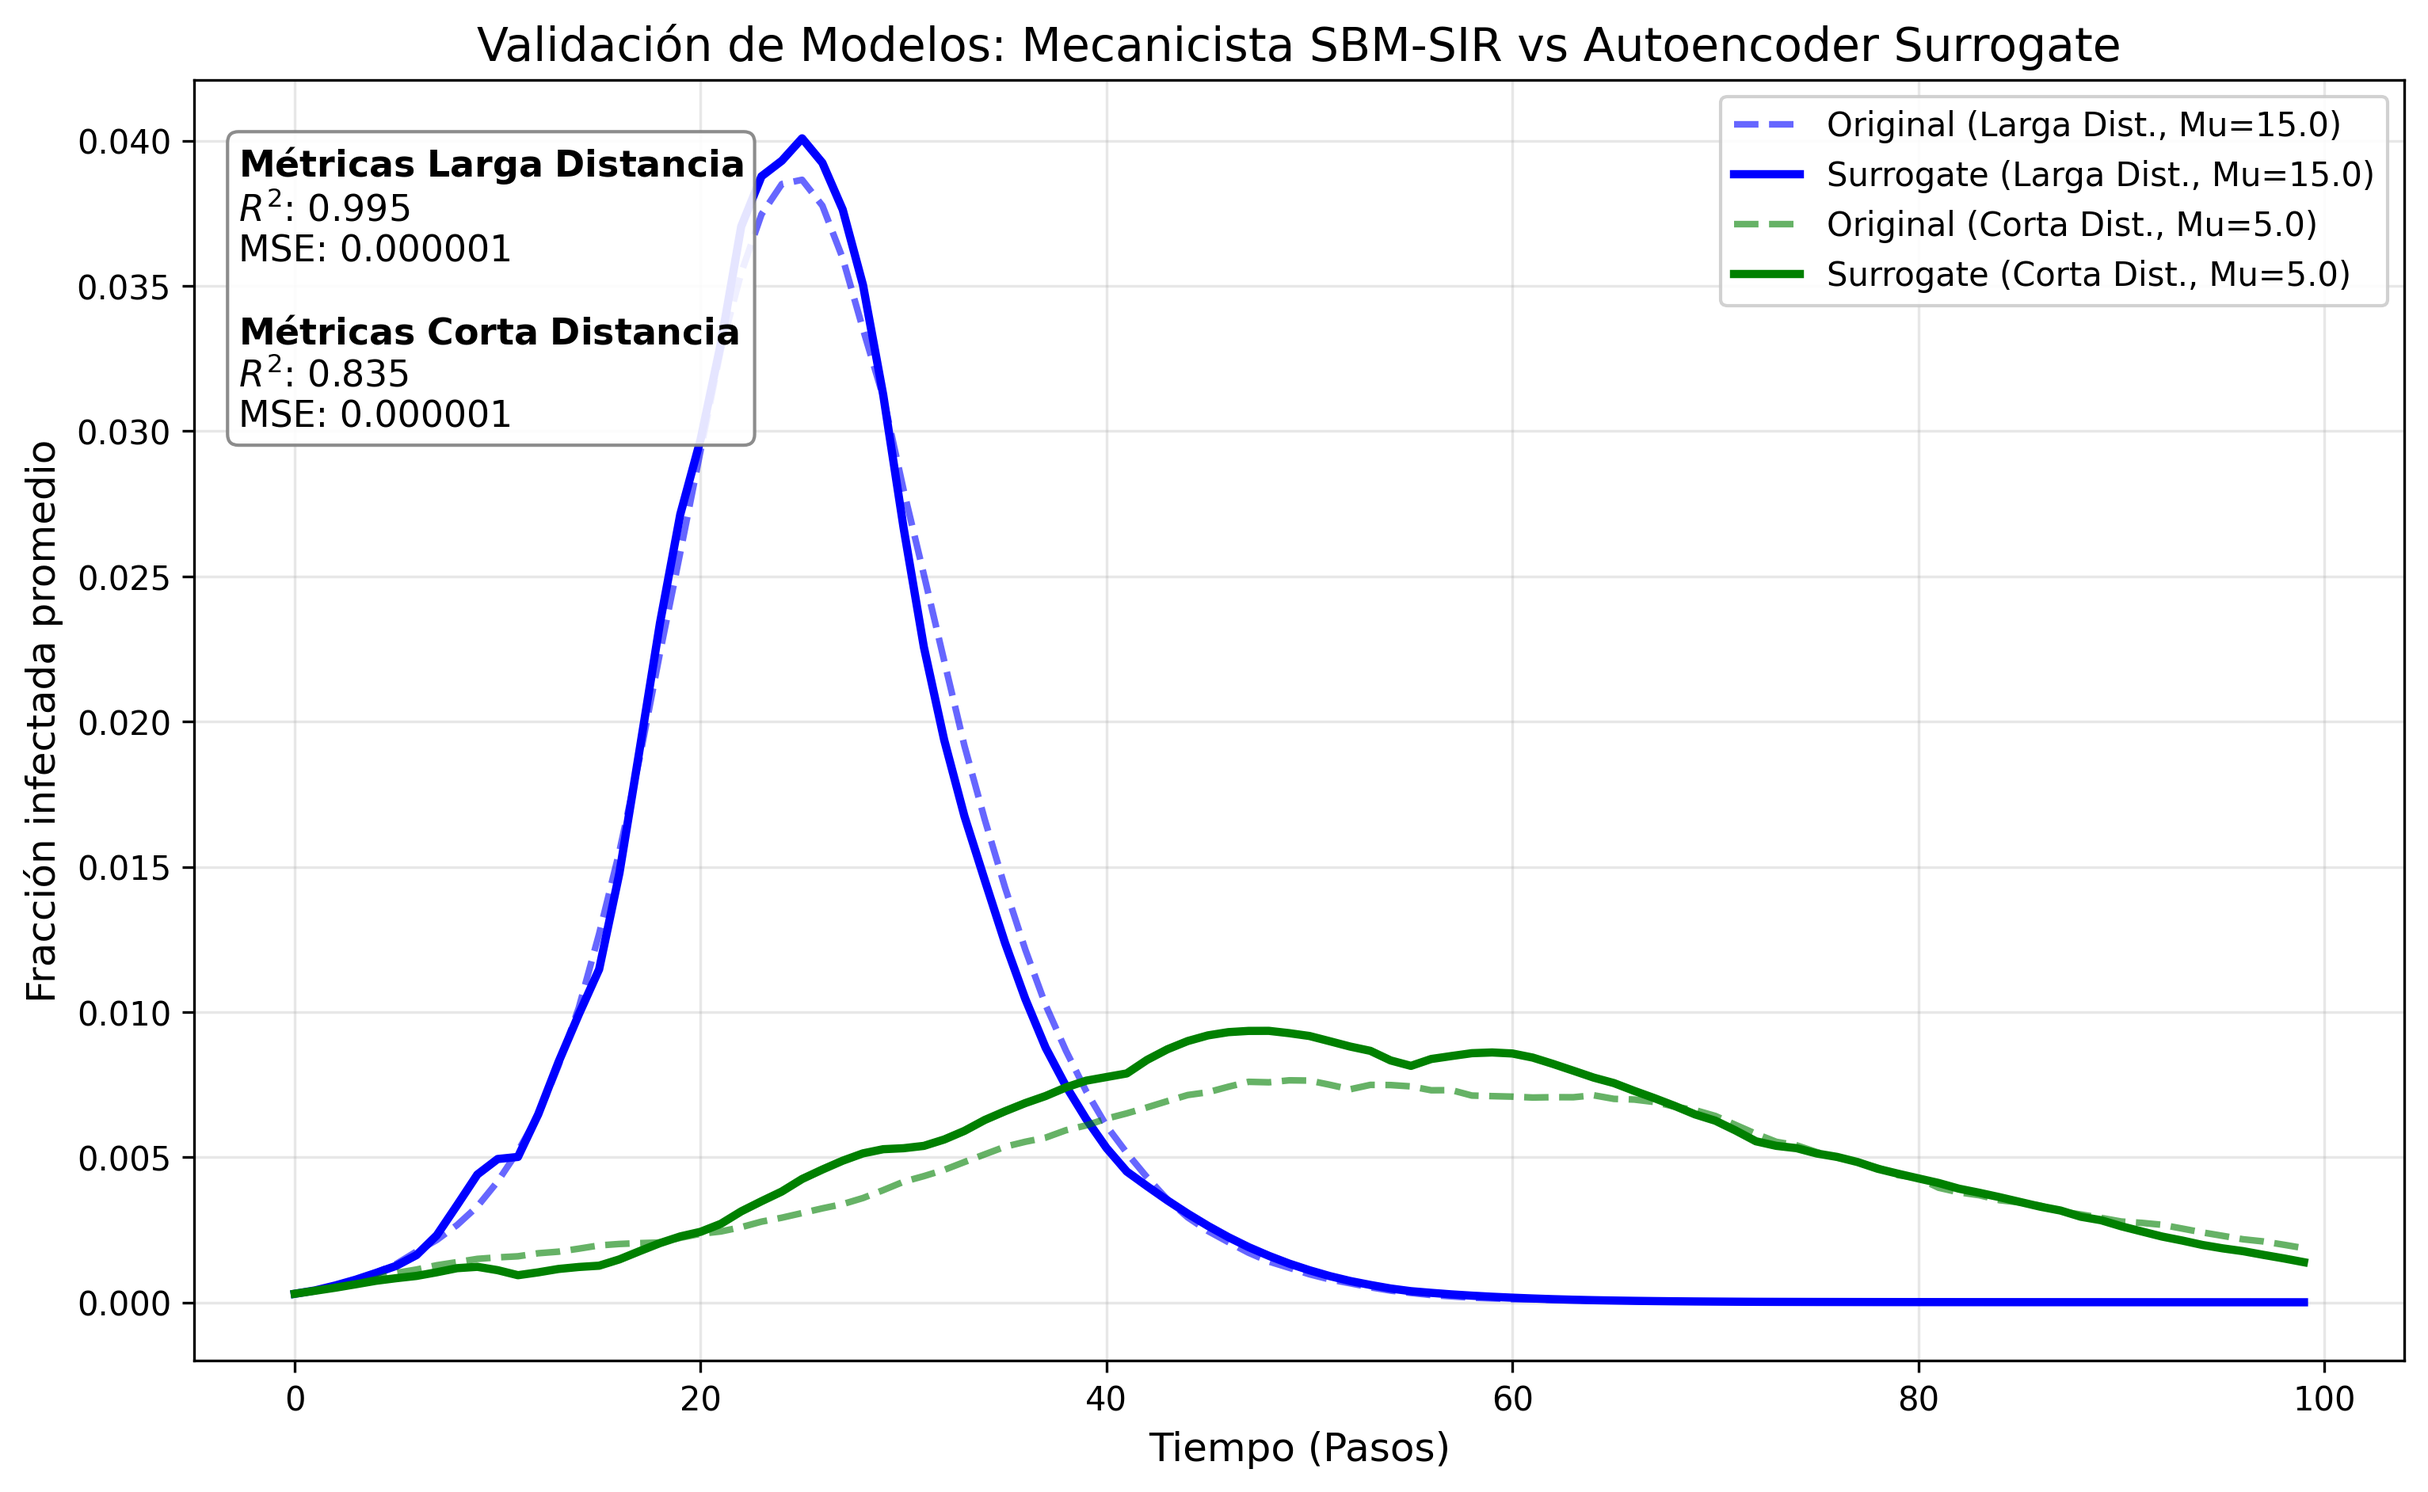
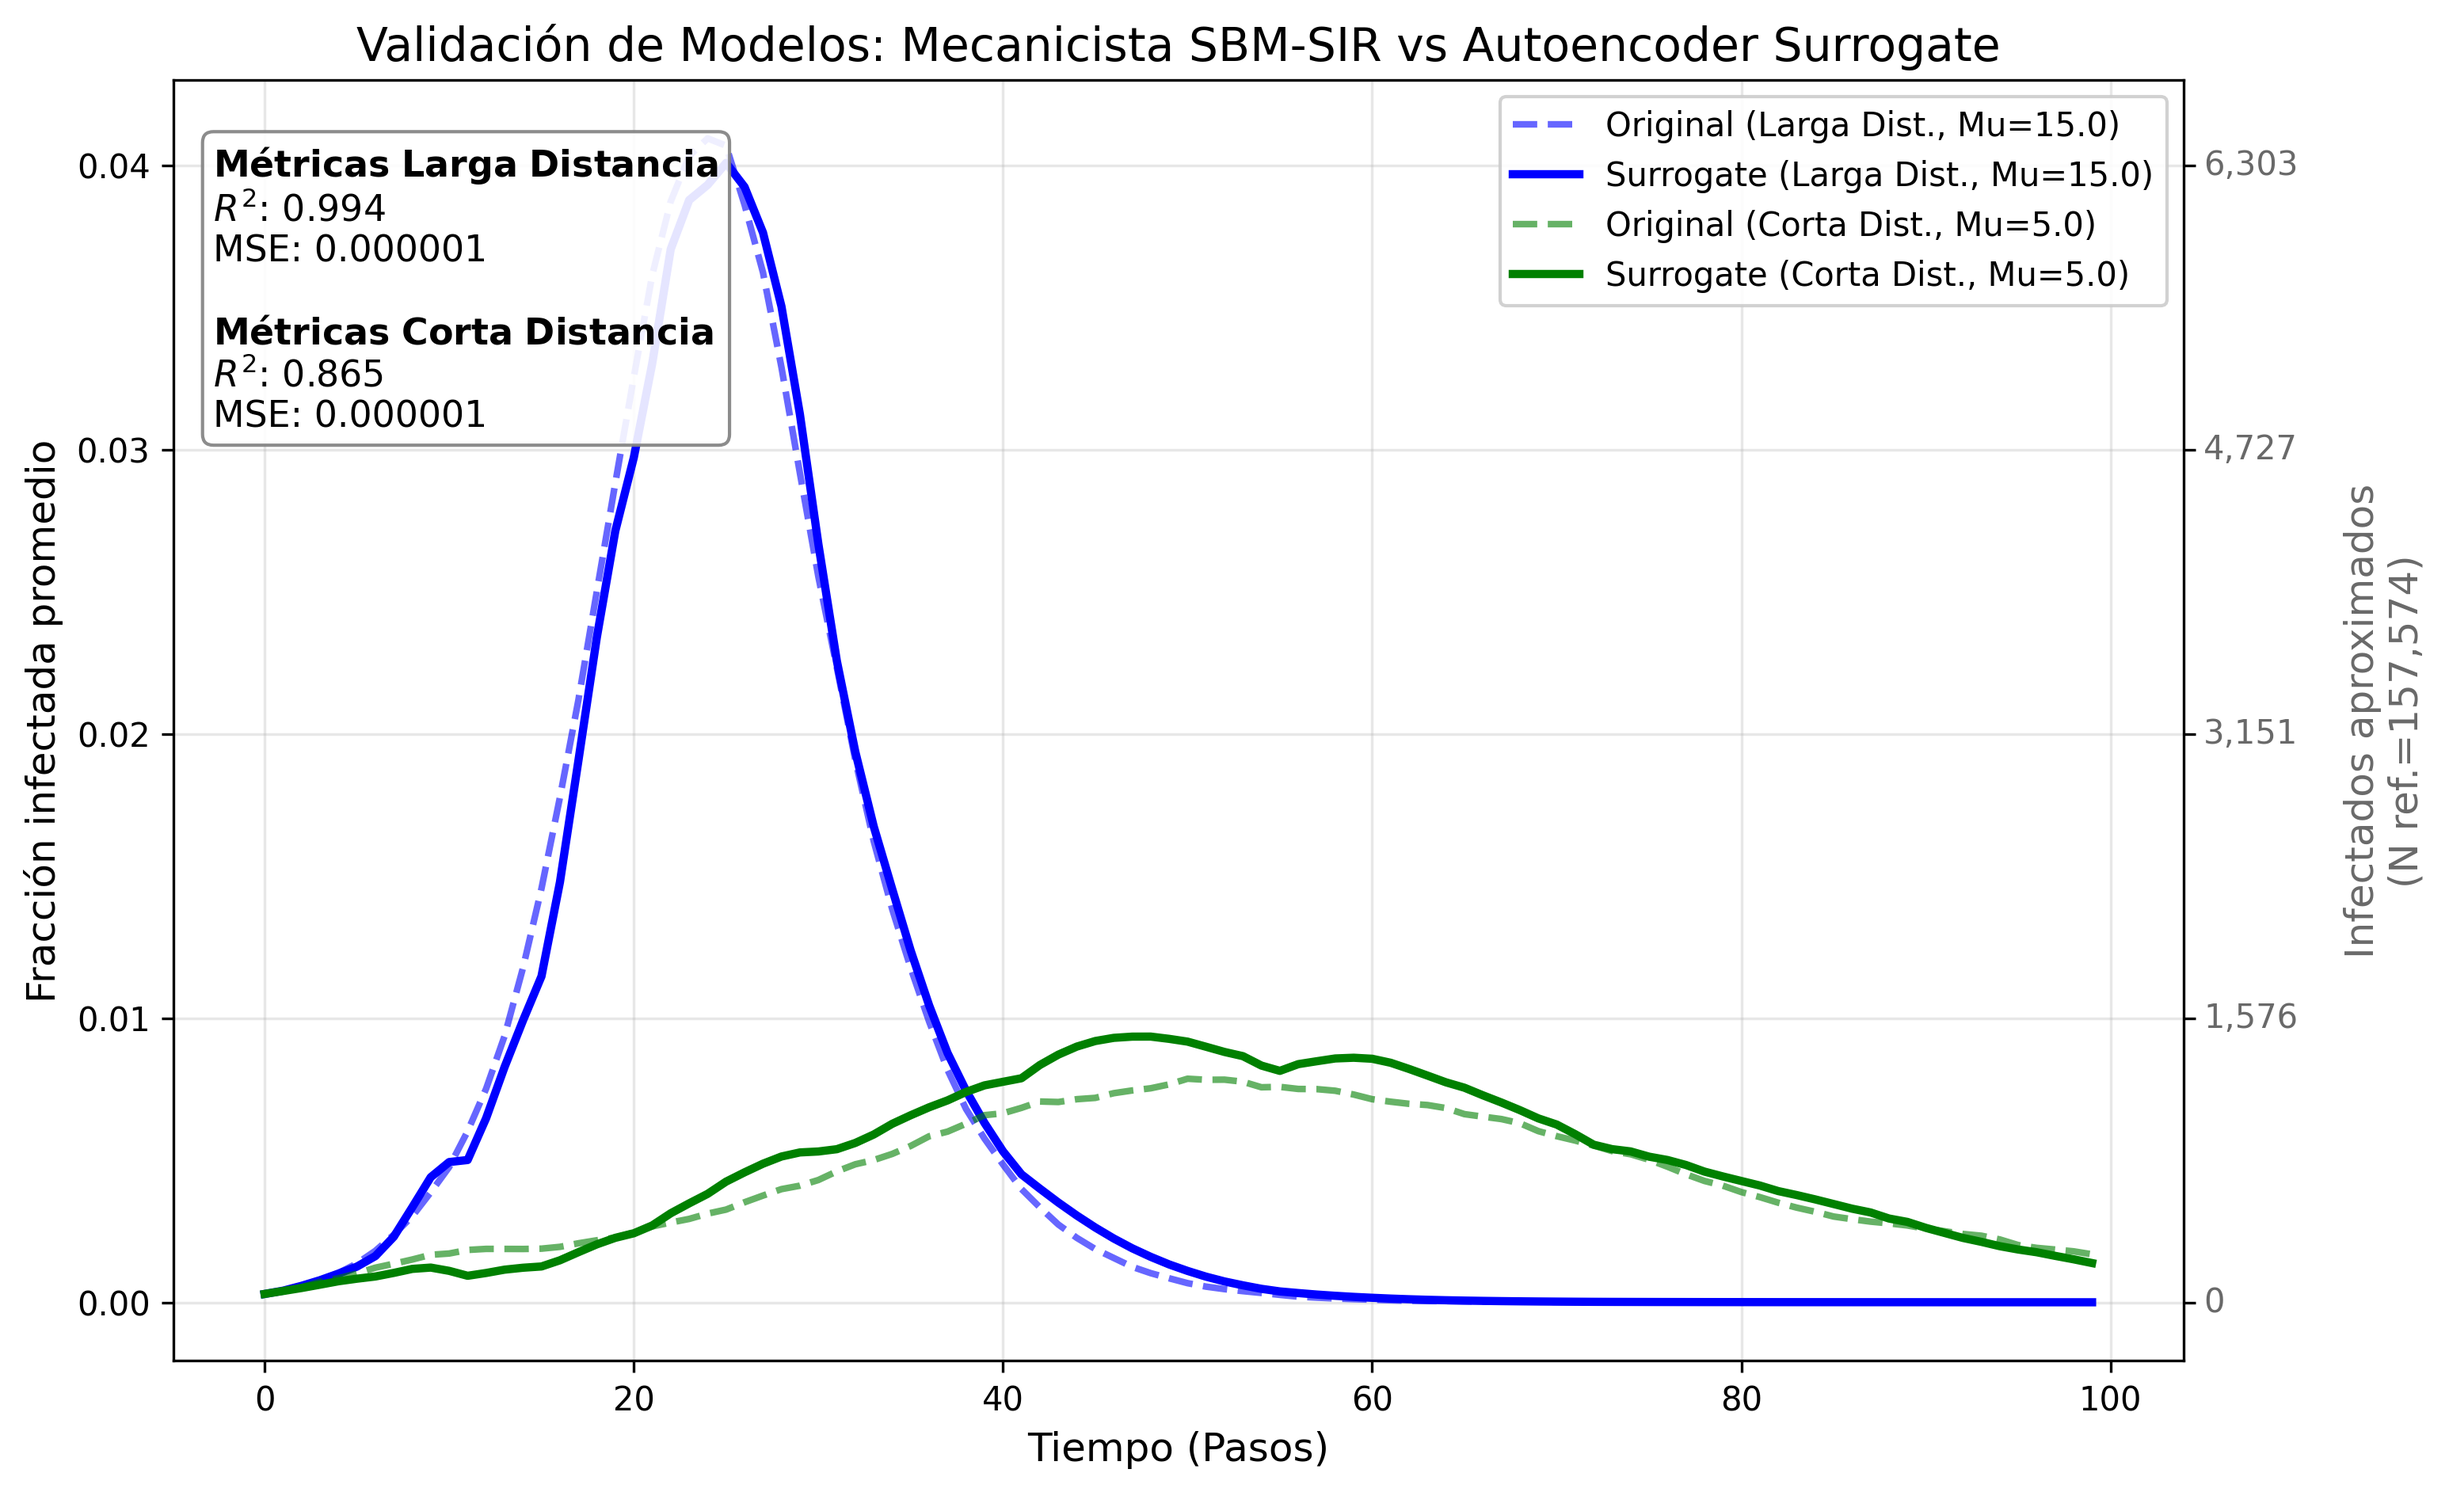
relativas y absolutas añadidas

diff --git a/AI_SBM.py b/AI_SBM.py
@@ -1,4 +1,10 @@
 import os
+
+ROOT_DIR = os.path.dirname(os.path.abspath(__file__))
+os.environ.setdefault("MPLBACKEND", "Agg")
+os.environ.setdefault("MPLCONFIGDIR", os.path.join(ROOT_DIR, "output", "ai_sbm", "mpl_cache"))
+os.environ.setdefault("XDG_CACHE_HOME", os.path.join(ROOT_DIR, "output", "ai_sbm", "xdg_cache"))
+
 import random
 import numpy as np
 import torch
@@ -29,7 +35,7 @@ METRICS_FILE = os.path.join(OUTPUT_DIR, "eval_metrics_normalized.txt")
 
 
 # 1. Dataset Generation
-def run_custom_scenario(beta_net, beta_hh, delta, fermi_mu, num_sims=10):
+def run_custom_scenario(beta_net, beta_hh, delta, fermi_mu, num_sims=10, return_population=False):
     """Ejecuta el simulador y retorna la curva promedio de fraccion infectada.
 
     Cada replica se normaliza primero por su poblacion total y despues se
@@ -53,6 +59,7 @@ def run_custom_scenario(beta_net, beta_hh, delta, fermi_mu, num_sims=10):
     packet["G"] = H_multi
     
     all_I = []
+    all_populations = []
     base_seed = packet["seed"]
     for i in range(num_sims):
         packet["seed"] = base_seed + i + random.randint(1000, 9000)
@@ -60,6 +67,7 @@ def run_custom_scenario(beta_net, beta_hh, delta, fermi_mu, num_sims=10):
             out = generador.simulate(packet)
             # Asegurar longitud igual a TMAX
             N_tot = int(out.meta["N_tot"])
+            all_populations.append(N_tot)
             I_curve = out.I / N_tot
             if len(I_curve) < TMAX:
                 I_curve = np.pad(I_curve, (0, TMAX - len(I_curve)), 'edge')
@@ -70,9 +78,14 @@ def run_custom_scenario(beta_net, beta_hh, delta, fermi_mu, num_sims=10):
             continue
     
     if len(all_I) == 0:
+        if return_population:
+            return np.zeros(TMAX), 1
         return np.zeros(TMAX)
     
-    return np.mean(all_I, axis=0)
+    mean_curve = np.mean(all_I, axis=0)
+    if return_population:
+        return mean_curve, int(round(np.mean(all_populations)))
+    return mean_curve
 
 def generate_dataset(num_samples=150, num_sims_per_sample=8):
     """Genera datos sintéticos variando los parámetros clave."""
@@ -284,10 +297,14 @@ def plot_ultimate_validation(model, X_scaler, Y_scaler):
     
     # Simulación Original
     print("Simulando Corta Distancia (Mu=5.0)...")
-    I_real_short = run_custom_scenario(beta_net, beta_hh, delta, mu_short, num_sims=20)
+    I_real_short, pop_short = run_custom_scenario(
+        beta_net, beta_hh, delta, mu_short, num_sims=20, return_population=True
+    )
     
     print("Simulando Larga Distancia (Mu=15.0)...")
-    I_real_long = run_custom_scenario(beta_net, beta_hh, delta, mu_long, num_sims=20)
+    I_real_long, pop_long = run_custom_scenario(
+        beta_net, beta_hh, delta, mu_long, num_sims=20, return_population=True
+    )
     
     # Predicciones Surrogate
     params_short = np.array([[beta_net, beta_hh, delta, mu_short]])
@@ -317,21 +334,49 @@ def plot_ultimate_validation(model, X_scaler, Y_scaler):
     
     t = np.arange(TMAX)
     
-    plt.figure(figsize=(12, 7))
+    reference_population = int(round(np.mean([pop_short, pop_long])))
+    fig, ax = plt.subplots(figsize=(12, 7))
     
     # Trazar Larga Distancia (Mu=15) - Predominancia Libre
-    plt.plot(t, I_real_long, label=f"Original (Larga Dist., Mu=15.0)", color="blue", linestyle="--", linewidth=2, alpha=0.6)
-    plt.plot(t, I_pred_long, label=f"Surrogate (Larga Dist., Mu=15.0)", color="blue", linestyle="-", linewidth=2.5)
+    ax.plot(t, I_real_long, label=f"Original (Larga Dist., Mu=15.0)", color="blue", linestyle="--", linewidth=2, alpha=0.6)
+    ax.plot(t, I_pred_long, label=f"Surrogate (Larga Dist., Mu=15.0)", color="blue", linestyle="-", linewidth=2.5)
     
     # Trazar Corta Distancia (Mu=5) - Predominancia Local
-    plt.plot(t, I_real_short, label=f"Original (Corta Dist., Mu=5.0)", color="green", linestyle="--", linewidth=2, alpha=0.6)
-    plt.plot(t, I_pred_short, label=f"Surrogate (Corta Dist., Mu=5.0)", color="green", linestyle="-", linewidth=2.5)
+    ax.plot(t, I_real_short, label=f"Original (Corta Dist., Mu=5.0)", color="green", linestyle="--", linewidth=2, alpha=0.6)
+    ax.plot(t, I_pred_short, label=f"Surrogate (Corta Dist., Mu=5.0)", color="green", linestyle="-", linewidth=2.5)
     
-    plt.title("Validación de Modelos: Mecanicista SBM-SIR vs Autoencoder Surrogate", fontsize=14)
-    plt.xlabel("Tiempo (Pasos)", fontsize=12)
-    plt.ylabel("Fracción infectada promedio", fontsize=12)
-    plt.legend(loc="upper right", framealpha=0.9)
-    plt.grid(True, alpha=0.3)
+    ax.set_title("Validación de Modelos: Mecanicista SBM-SIR vs Autoencoder Surrogate", fontsize=14)
+    ax.set_xlabel("Tiempo (Pasos)", fontsize=12)
+    ax.set_ylabel("Fracción infectada promedio", fontsize=12)
+    ax.legend(loc="upper right", framealpha=0.9)
+    ax.grid(True, alpha=0.3)
+
+    fig.subplots_adjust(right=0.83)
+    ax.tick_params(axis="y", right=True, labelright=False)
+    y_min, y_max = ax.get_ylim()
+    for tick in ax.get_yticks():
+        if y_min <= tick <= y_max:
+            ax.text(
+                1.01,
+                tick,
+                f"{tick * reference_population:,.0f}",
+                transform=ax.get_yaxis_transform(),
+                va="center",
+                ha="left",
+                fontsize=10,
+                color="dimgray",
+            )
+    ax.text(
+        1.10,
+        0.5,
+        f"Infectados aproximados\n(N ref.={reference_population:,})",
+        transform=ax.transAxes,
+        rotation=90,
+        va="center",
+        ha="center",
+        fontsize=12,
+        color="dimgray",
+    )
     
     # Mostrar métricas agrupadas en una caja de texto
     textstr = '\n'.join((
@@ -345,7 +390,7 @@ def plot_ultimate_validation(model, X_scaler, Y_scaler):
     ))
     
     props = dict(boxstyle='round', facecolor='white', alpha=0.9, edgecolor='gray')
-    plt.gca().text(0.02, 0.95, textstr, transform=plt.gca().transAxes, fontsize=11,
+    ax.text(0.02, 0.95, textstr, transform=ax.transAxes, fontsize=11,
             verticalalignment='top', bbox=props)
     
     out_img = os.path.join(OUTPUT_DIR, "validacion_surrogate_comparativa_normalizada.png")
